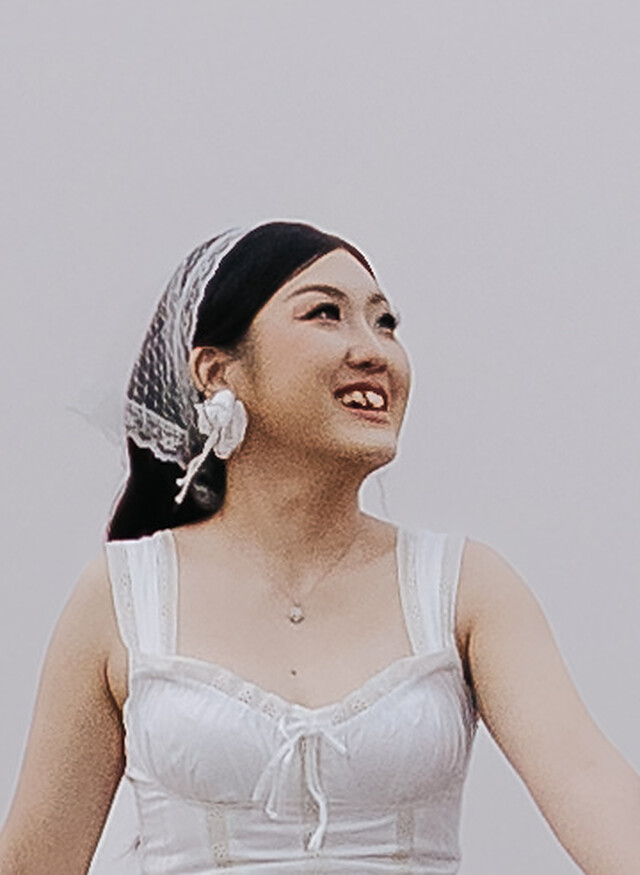
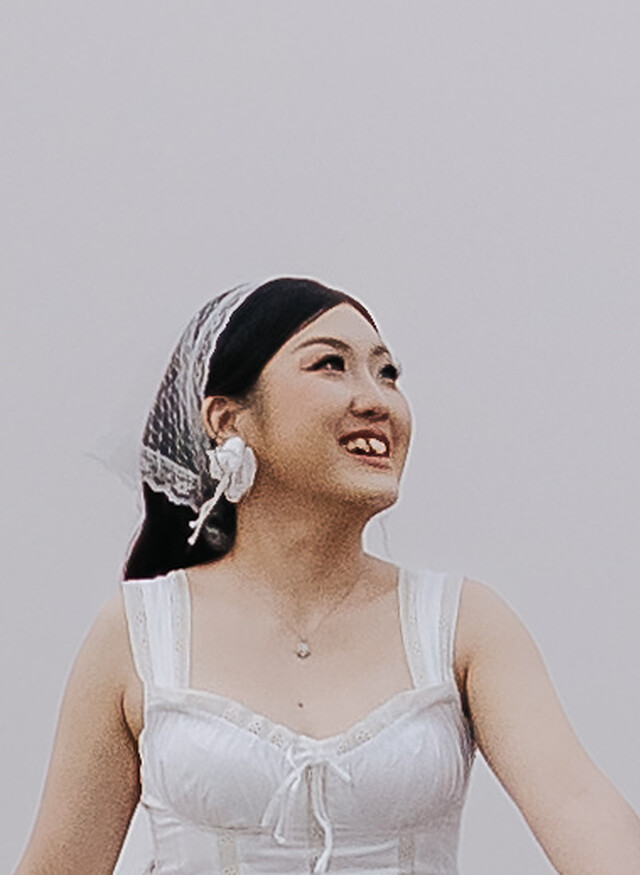
Potret mempelai dirapatkan jadi dada ke atas (sesuai contoh user)
Ivan (2186): chest-up, wajah lebih besar, dasi pita & rompi menonjol,
tanpa perahu/tangan. Sioni (2397): head-to-waist, headroom, bodice
bersih, tangan Ivan tetap di luar frame. Cache foto naik ke ?v=9.

Claude-Session: https://claude.ai/code/session_01GMSdUjAdfB16khtqgiAMZX

diff --git a/preview/js/config.js b/preview/js/config.js
@@ -12,14 +12,14 @@ window.WEDDING_CONFIG = {
       full: "Ivan Rusli",
       parents: "Putra dari Bapak Lie Sje Foek & Ibu Irene Khoe",
       instagram: "", // contoh: "ivanrusli" (tanpa @)
-      photo: "../assets/img/groom.jpg?v=8", // foto potret ("" = ilustrasi bawaan)
+      photo: "../assets/img/groom.jpg?v=9", // foto potret ("" = ilustrasi bawaan)
     },
     bride: {
       nick: "Sioni",
       full: "Sara Sioni Santoso",
       parents: "Putri dari Bapak Sie Djing San & Ibu Njoo Eng Lian",
       instagram: "",
-      photo: "../assets/img/bride.jpg?v=8",
+      photo: "../assets/img/bride.jpg?v=9",
     },
   },
 
